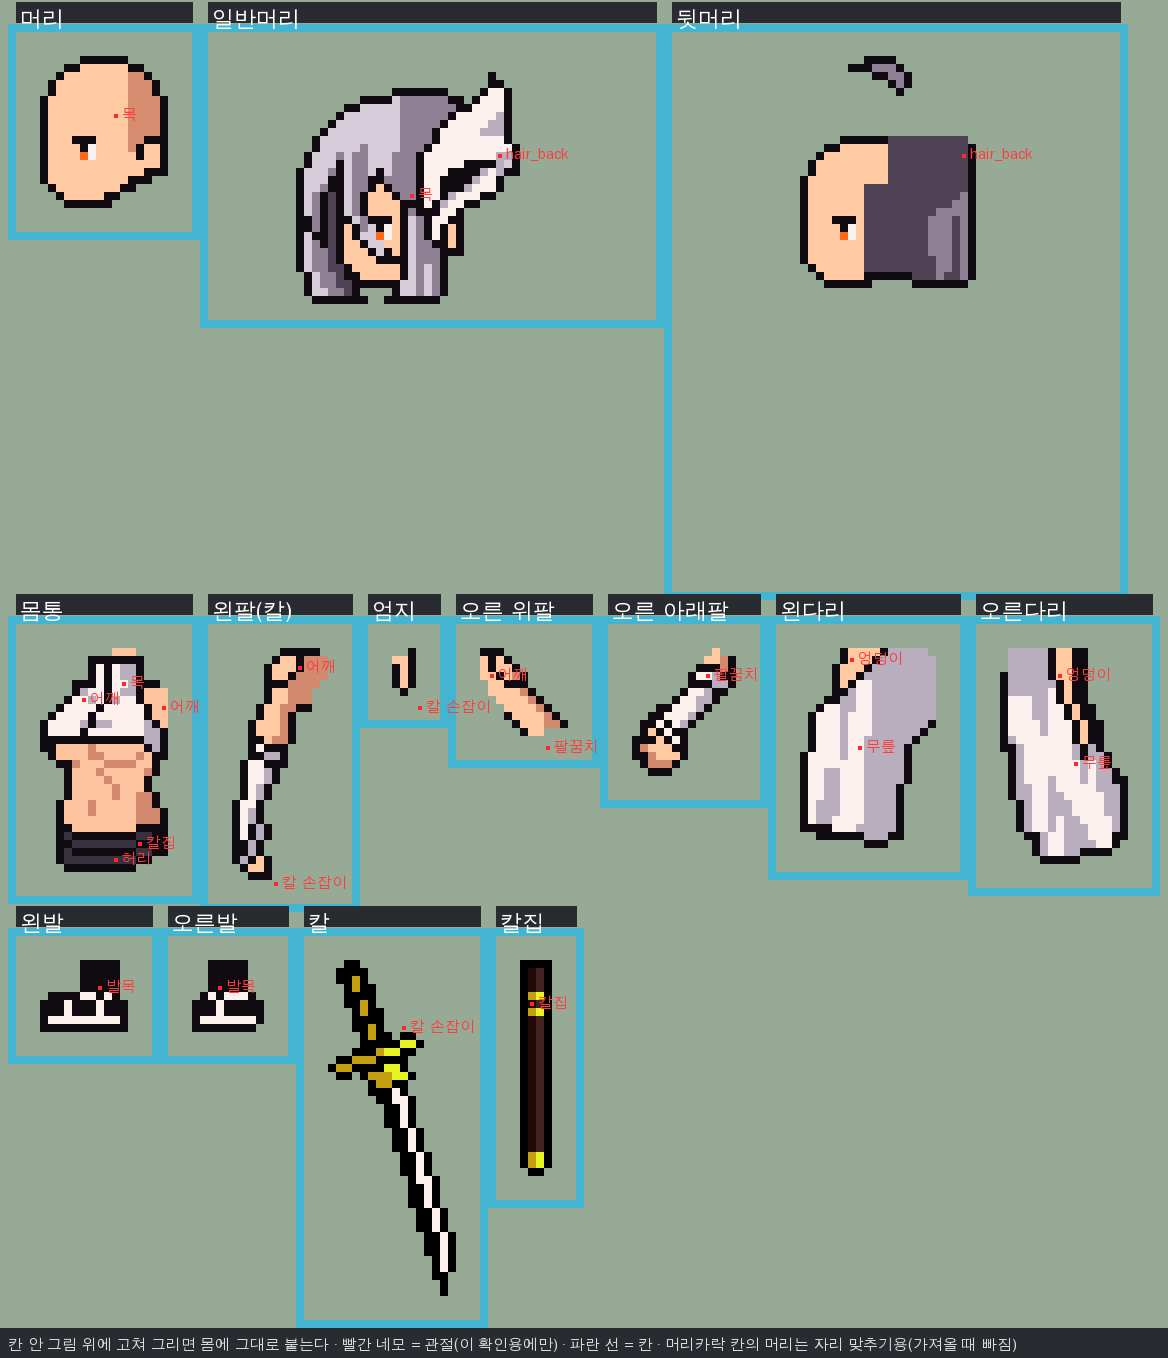
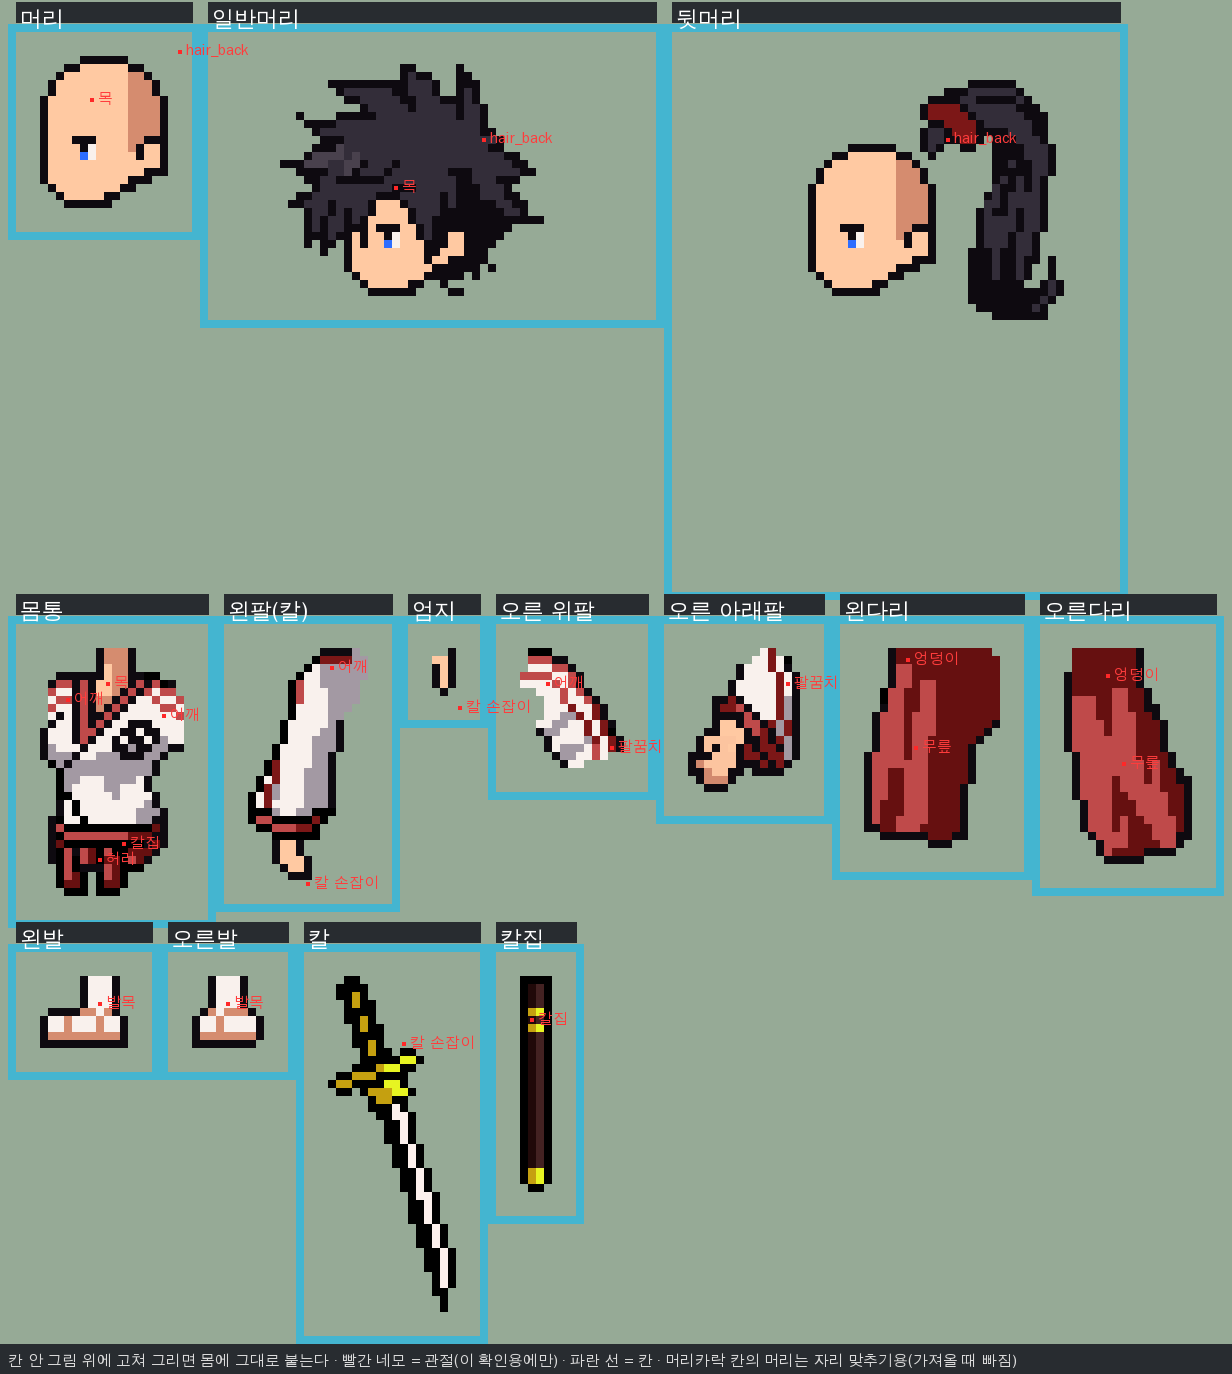
C.190 아란칼 여성 시트(29d) 다시 반영 — 작업본·게임본, 캡처 c190
Claude-Session: https://claude.ai/code/session_011W8zFEjKADtTYyQZXReU7r

Changed region(s): [[0.0, 0.0, 1.0, 1.0], [0.6473, 0.0309, 0.863, 0.2474], [0.0, 0.0, 0.0616, 0.0309]]

diff --git a/src/version.ts b/src/version.ts
@@ -3,7 +3,7 @@
 import { BALANCE_VERSION } from './config/balance';
 
 /** 패치 이름 = docs/dev-log.md 의 최신 소절 번호. 패치마다 갱신한다 (CLAUDE.md) */
-export const PATCH_LABEL = 'C.189';
+export const PATCH_LABEL = 'C.190';
 /** 단계 번호 = docs/dev-log.md 로드맵 표의 단계. PATCH_LABEL 과 같이 패치마다 갱신한다 */
 export const STAGE_LABEL = 'S-23';
 

diff --git a/docs/GDD.md b/docs/GDD.md
@@ -1,4 +1,4 @@
-# 호로 / 사신 키우기 — 기획서 v5.263 (Claude Code 인수인계용)
+# 호로 / 사신 키우기 — 기획서 v5.264 (Claude Code 인수인계용)
 
 > 프로젝트 이름: 블리치 할로우 어센션 (Bleach Hollow Ascension). 변경 이력과 결정 기록은 12장, 개발 로드맵과 현재 상태는 13장. 기획은 이 문서 하나가 기준이다.
 
@@ -356,6 +356,9 @@ data/
 ---
 
 ## 12. 결정 기록 / 변경 이력
+
+### v5.264 (2026-10-29, 종이인형 세션 C.190)
+- 115장 수정: arrancar-base-f = 사용자 2026-10-29d 시트(사용자 원문 "아란칼여자 다시 확인해봐. 제대로 해놨는데;", 마스터S 경유). 보류 풀림.
 
 ### v5.263 (2026-10-29, 코딩135 C.189)
 - 115장 구현 완료(C.189). 종이인형 브랜치 merge(merge 커밋, main 쪽 기능·수치·세이브 그대로) — 브랜치 96장 → 115-A, 브랜치 12장 v5.198 기록(96장 신설: 종이인형 A안 엔진·데이터·시험판)도 115-A 머리에 원문 보존, dev-log 브랜치 C.151 → 'C.151 종이인형'. 코드 판단: ① 단계별 종이인형(`char.<종족>.<n>` 의 rig)은 그 단계 대체 그림 파일보다 먼저(아란칼 자리의 옛 대체 char-hollow-5.png 를 덮게), 종족 공통 종이인형은 단계별 파일이 없을 때만(브랜치 규칙 그대로) ② 여성 = 외형 id 뒤 `-f`(humanoid.json looks 에 있을 때만) ③ 목록·사진처럼 종족 기본 키를 안 넘기는 곳도 단계별 종이인형은 정지 그림으로. 세이브 형식 그대로(52), BALANCE 그대로.
@@ -3836,6 +3839,7 @@ data/
   2. 아란칼: 113장에서 지운 호로 **5단계(아란칼) 진화체 외형 자리 전부**에 arrancar-base(남) / arrancar-base-f(여)를 붙인다(속성·칸별 개별 그림이 오면 그쪽이 우선 — 지금 skin-arr* 파일 규칙 유지). 사용자 원문 114장 "아란칼부터 바뀜"·113장 "내가 따로 보내줄 거거든" 근거.
   3. 성별 연결은 엔진·종족 설정으로(`genderLookFromTier`·외형 id 뒤 -f), 종족 분기 금지.
   4. arrancar-base-f 는 종이인형 세션이 '직전 버전'으로 넣음(사용자가 마지막에 보낸 시트는 학생(여) 그림이라 보류) — 사용자 확인 대기, 바뀌면 파일만 교체.
+  - **수정 (C.190, v5.264)**: arrancar-base-f = 사용자 29d 시트(`docs/design/user-art/arrancar-base-f-guide/arrancar-f-user-2026-10-29d.png`, 영술원 학생(여) 가이드 칸에 그림). 부위 자리·몸별 관절·기본 각도 = 학생(여)와 같게(시트가 그 칸 기준). 같은 그림은 기존 파일을 가리킴(몸통·팔·다리·뒷머리 = 학생(여), 일반머리 = 학생(남), 머리·발·엄지 = 사신).
 - 세션: C.189 코딩135(Opus).
 - **구현 완료 (C.189, v5.263, 코딩135)**: 브랜치 merge(충돌 5곳 — version.ts·GDD·dev-log = main 기준, manifest.ts = main 값(fieldScale 등) + 사신 종이인형 키, room.css = 양쪽 합침). 그림 목록 `char.hollow.5` = arrancar-base(아란칼 진화체 자리 전부 — 스킨 `skin-arr*.png` 파일이 있으면 그쪽 먼저), `char.shinigami` = shinigami-base, `char.shinigami.2` = shinigami-student. 여성이고 genderLookFromTier 단계 이상이면 `<외형>-f`(`charArt`, 종족 분기 없음). 사신 3~5단계는 종족 공통 자리(shinigami-base) 그대로 — 단계별 새 외형은 [미정]. 확인: 테스트 모드 아란칼 남/여·사신 남/여·학생 남/여 방·걷기·전투, 콘솔 에러·400대 응답·깨진 그림 0. 캡처 `docs/captures/c189/`. dev-log C.189.
 

diff --git a/docs/dev-log.md b/docs/dev-log.md
@@ -892,3 +892,7 @@ C.0 ~ C.120 은 `docs/dev-log-archive.md` 로 옮겼다(C.0~C.59 2026-10-20, C.6
 - 테스트: c110(아란칼 자리 = 스킨 파일 또는 arrancar-base, 여성 arrancar-base-f)·c188(여성 외형 = 종이인형 -f, 호로 4단계까지 남녀 같음)·rigAnim(학생 = 단계별 종이인형이 파일보다 먼저) 갱신.
 - 확인(테스트 모드, 1배 844×390): 아란칼 남/여·사신 남/여·학생 남/여 — 방·가방·걷기·전투, 콘솔 에러 0·400대 응답 0·깨진 그림 0. 걷기 화면은 사신 종이인형(브랜치 값 1.32배)과 같은 크기로 크게 보임 — 브랜치 설정 그대로 둠.
 - 캡처 `docs/captures/c189/`: 01 사신 남 방 · 02 사신 여 방 · 03 학생 여 방 · 04 아란칼 남 방 · 05 아란칼 여 방 · 06 아란칼 여 전투.
+
+## C.190 — 아란칼 여성 시트 다시 반영 (GDD 115장, v5.264, S-23, 종이인형 세션)
+- 사용자 원문(2026-10-29 10:4x, 마스터S 경유): "아란칼여자 다시 확인해봐. 제대로 해놨는데;" → 보류했던 29d 시트로 arrancar-base-f 다시 만듦(가이드 = 영술원 학생(여) 칸, 자리·관절 = 학생(여)), `promote.py` 로 게임본·정지 그림·고정 파일. 가이드 다시 뽑음.
+- 캡처 `docs/captures/c190/`(1배 844×390, 테스트 모드 호로 5단계 아란칼 노멀 조 + 성별 여성): 01 방 · 02 전투. 콘솔 에러 0.
